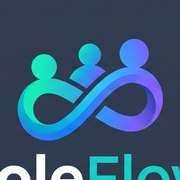
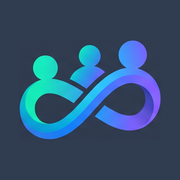
fix(branding): recrop emblem to eliminate bottom text clipping and remove v1.3 badge

diff --git a/src/components/Navbar.tsx b/src/components/Navbar.tsx
@@ -92,21 +92,16 @@ export function Navbar({ user }: NavbarProps) {
         <div className="flex items-center gap-6 sm:gap-8">
           {/* Official Brand Logo */}
           <Link href="/" className="flex items-center gap-2.5 group shrink-0">
-            <div className="relative w-8 h-8 rounded-xl overflow-hidden bg-surface-border/40 border border-white/10 p-0.5 shadow-md shadow-violet-500/10 group-hover:border-purple-500/50 group-hover:scale-105 transition-all">
+            <div className="relative w-8 h-8 rounded-xl overflow-hidden border border-white/10 shadow-md shadow-violet-500/10 group-hover:border-purple-500/50 group-hover:scale-105 transition-all">
               <img
                 src="/logo.png"
                 alt="RoleFlow Emblem"
-                className="w-full h-full object-contain rounded-lg"
+                className="w-full h-full object-cover"
               />
             </div>
-            <div className="flex items-center gap-1.5">
-              <span className="text-lg font-black tracking-tight text-white group-hover:text-purple-300 transition-colors">
-                RoleFlow
-              </span>
-              <span className="hidden sm:inline-block text-[10px] font-mono px-1.5 py-0.5 rounded bg-purple-500/10 text-purple-400 border border-purple-500/20 font-semibold">
-                v1.3
-              </span>
-            </div>
+            <span className="text-lg font-black tracking-tight text-white group-hover:text-purple-300 transition-colors">
+              RoleFlow
+            </span>
           </Link>
 
           {/* Desktop Navigation */}
